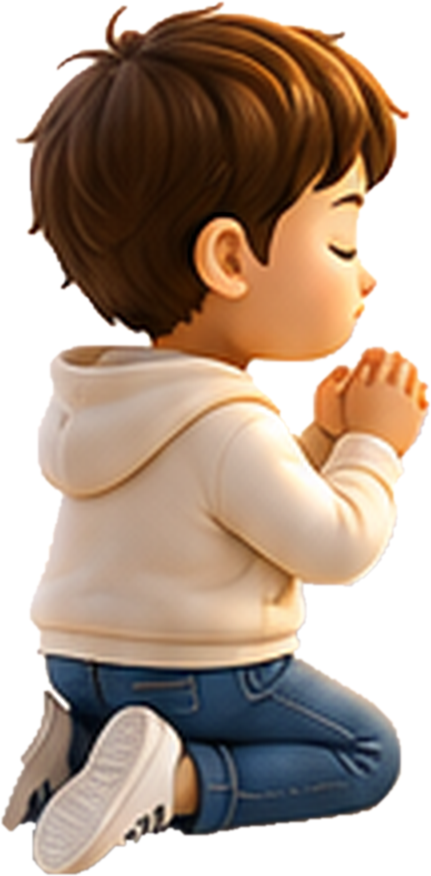
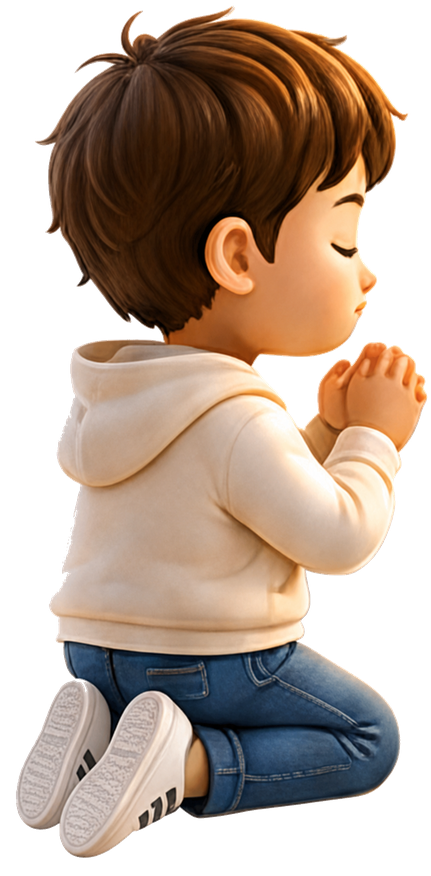
V3.7: 타이틀 '신약 필사 진도 체크' 한 줄 중앙 정렬 및 기도하는 아이 왼쪽 발 그림 수정

diff --git a/index.html b/index.html
@@ -11,8 +11,8 @@
   <link rel="preconnect" href="https://fonts.googleapis.com">
   <link rel="preconnect" href="https://fonts.gstatic.com" crossorigin>
   <link href="https://fonts.googleapis.com/css2?family=Noto+Sans+KR:wght@400;500;600;700;800&family=Noto+Serif+KR:wght@600;700;800&display=swap" rel="stylesheet">
-  <link rel="stylesheet" href="/styles.css?v=20260907-360">
-  <title>청운교회 피택자 신약 필사 진도 체크</title>
+  <link rel="stylesheet" href="/styles.css?v=20261105-370">
+  <title>신약 필사 진도 체크</title>
 </head>
 <body>
   <main class="shell">
@@ -27,7 +27,7 @@
       <div class="hero-sun"></div>
 
       <div class="hero-copy">
-        <h1><span class="title-line1">청운교회 피택자</span><span class="title-line2">신약 필사 진도 체크</span></h1>
+        <h1><span class="title-line2">신약 필사 진도 체크</span></h1>
         <p class="subtitle">“주의 말씀은 내 발에 등이요 내 길에 빛이니이다”</p>
         <p class="verse">시편 119:105</p>
       </div>
@@ -189,7 +189,7 @@
       <button data-target="reminderPanel">⚙<span>설정</span></button>
     </nav>
   </main>
-  <script src="/scripture.js?v=20260907-360"></script>
-  <script src="/app.js?v=20260907-360"></script>
+  <script src="/scripture.js?v=20261105-370"></script>
+  <script src="/app.js?v=20261105-370"></script>
 </body>
 </html>

diff --git a/sw.js b/sw.js
@@ -1,15 +1,15 @@
 
-const CACHE="scripture-pwa-v3-6-20260907-360";
+const CACHE="scripture-pwa-v3-7-20261105-370";
 const ASSETS=[
   "/",
   "/index.html",
-  "/styles.css?v=20260907-360",
-  "/app.js?v=20260907-360",
-  "/scripture.js?v=20260907-360",
+  "/styles.css?v=20261105-370",
+  "/app.js?v=20261105-370",
+  "/scripture.js?v=20261105-370",
   "/manifest.webmanifest",
   "/icon.svg",
-  "/journey-background.jpg?v=20260907-360",
-  "/praying-child.png?v=20260907-360"
+  "/journey-background.jpg?v=20261105-370",
+  "/praying-child.png?v=20261105-370"
 ];
 
 self.addEventListener("install", event => {
